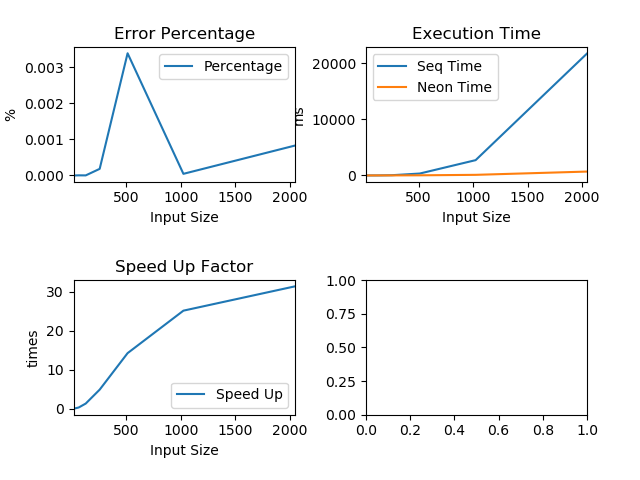
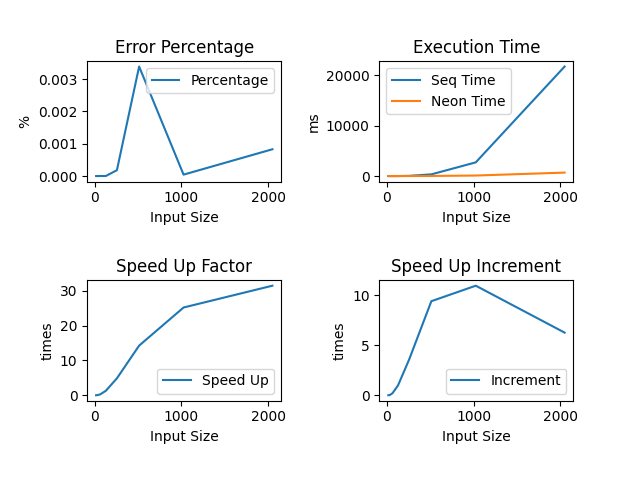
Added Speed Up Increment Graph

diff --git a/src/graph.py b/src/graph.py
@@ -8,22 +8,32 @@ filename = "test_result.png"
 data = pd.read_csv("test_results.txt", sep=" ", header=None)
 data.columns = ["Input Size", "Sum Error", "Percentage", "Seq Time", "Neon Time"]
 data["Speed Up"] = data["Seq Time"] / data["Neon Time"]
+data["Increment"] = (
+    data["Speed Up"] - data.shift(periods=1, axis="index", fill_value=0)["Speed Up"]
+)
 
 fig, axes = plt.subplots(nrows=2, ncols=2)
-plt.tight_layout(pad=3, w_pad=2.0, h_pad=5)
+plt.tight_layout(pad=4, w_pad=4.0, h_pad=5)
 
+################ plot 1 ####################
 axes[0, 0].title.set_text("Error Percentage")
 axes[0, 0].set_ylabel("%")
 data.plot(ax=axes[0, 0], x="Input Size", y="Percentage", kind="line")
 
+################ plot 2 ####################
 axes[0, 1].title.set_text("Execution Time")
 axes[0, 1].set_ylabel("ms")
 data.plot(ax=axes[0, 1], x="Input Size", y=["Seq Time", "Neon Time"], kind="line")
 
+################ plot 3 ####################
 axes[1, 0].title.set_text("Speed Up Factor")
 axes[1, 0].set_ylabel("times")
 data.plot(ax=axes[1, 0], x="Input Size", y="Speed Up", kind="line")
 
+################ plot 4 ####################
+axes[1, 1].title.set_text("Speed Up Increment")
+axes[1, 1].set_ylabel("times")
+data.plot(ax=axes[1, 1], x="Input Size", y="Increment", kind="line")
 
 plt.savefig(filename)
 
